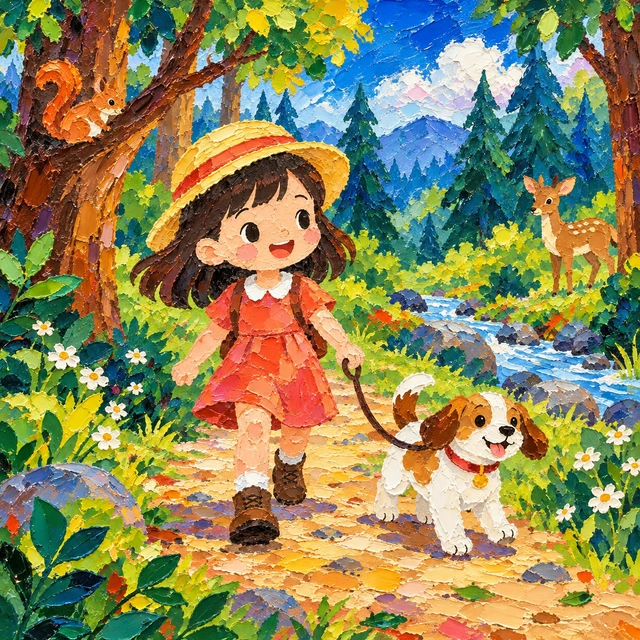
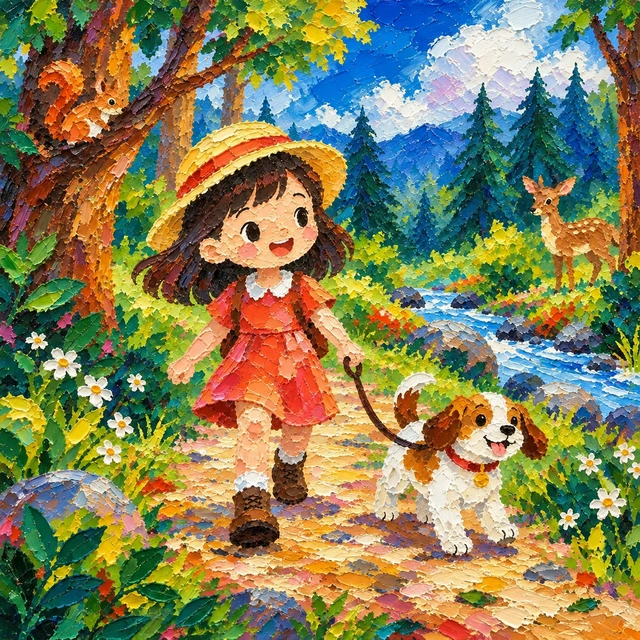
fix: strengthen painterly treatment of classic oil style sample

diff --git a/docs/picture-books/characters.md b/docs/picture-books/characters.md
@@ -39,6 +39,14 @@
 
 验证：`pnpm --filter @xueleai/web typecheck` 通过；风格、角色、风格参考测试44项通过；三张R2图片与本地SHA-256一致；Docker Web/API构建和容器健康检查通过；浏览器确认经典油画卡片和两张角色图加载新地址。截图：`/tmp/abei-classic-oil-picker.png`、`/tmp/abei-classic-oil-characters.png`。本次无 migration/seed，未更新依赖，未运行 install、全量 lint 或全量测试。
 
+## 2026-10-04 经典油画风格图进一步调整
+
+按照用户再次提供的样图，使用内置 imagegen 重新绘制经典油画风格示意图，加强人物、动物与背景的厚油彩色面、刮刀刀痕和鲜明冷暖色块，保留既有形象与森林布局。实际提示词与输入参考路径见 `style-image-prompts.json`；上一版布局图保存于 `references/classic-oil-layout.webp`。
+
+新版640×640 WebP已归档 abeiai R2，地址见 `style-image-assets.json`。本地系统配置仅替换 `classic-oil.imageUrl`，原配置备份于 `/tmp/abei-classic-oil-painterly-config-backup.json`。风格读取接口与生图服务均读取当前R2配置，因此运行中的服务直接生效。
+
+验证：`pnpm --filter @xueleai/web typecheck` 通过；R2和风格图片API返回内容与本地SHA-256一致；浏览器确认新版风格卡片加载。截图 `/tmp/abei-classic-oil-painterly-picker.png`。本次仅替换风格图及资产记录，未运行 build、全量 lint 或测试，无 migration/seed。
+
 ## 验证
 
 角色针对性测试覆盖风格变体选择、旧绘本图片快照、沟通提取及预选形象匹配、所有权、R2上传、同风格和身份图变更的并发保护。数据库 migration 先以真实数据库事务执行后回滚验证，再执行部署迁移。浏览器使用独立测试绘本验收选择、风格切换、上传、讨论提取、角色和页图生成。
